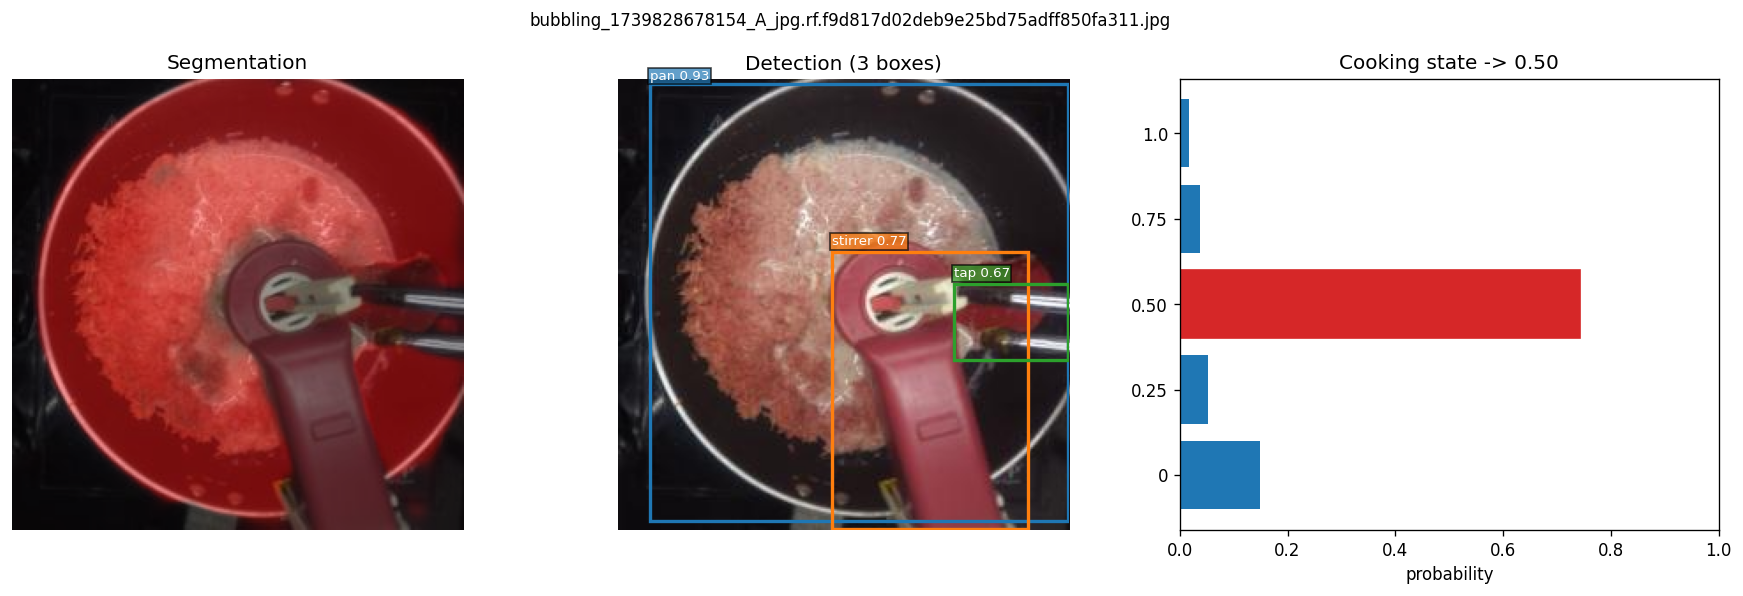
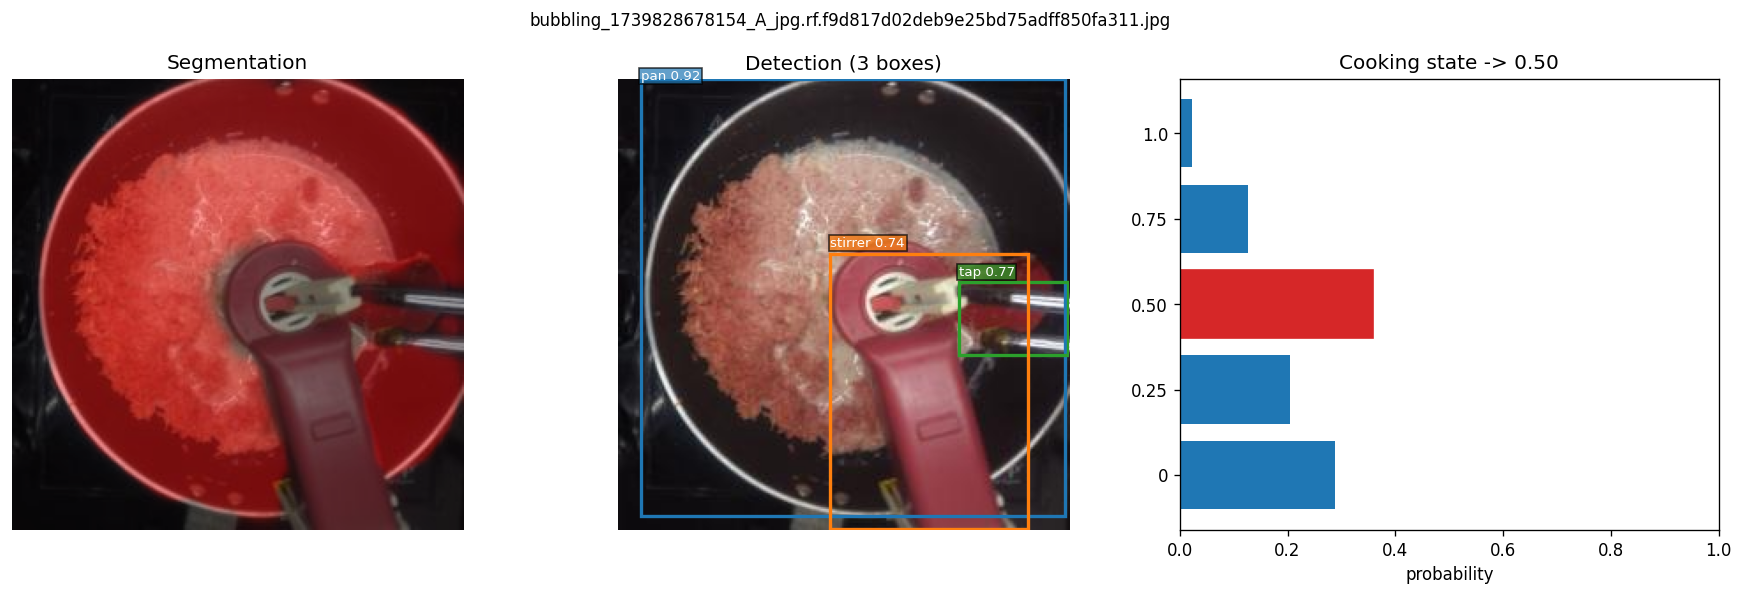
changed score-thres 0.3 to 0.4 for selecting boudning boxes at inference

diff --git a/inference.py b/inference.py
@@ -136,10 +136,29 @@ def run(args):
         det_results = model.predict_detections(
             img_t, score_thresh=args.score_thresh, nms_iou=args.nms_iou,
         )[0]
+        boxes = det_results["boxes"]
+        scores = det_results["scores"]
+        labels = det_results["labels"]
+
+        # Optional cleanup: keep only the top-K boxes per class.
+        # NMS already removes overlapping duplicates, but a model that's
+        # uncertain can still place several non-overlapping boxes of the same
+        # class at different spots. For images where you expect ~1 instance per
+        # class (like our cooking scenes), --top-k-per-class 1 gives a clean view.
+        if args.top_k_per_class > 0 and labels.numel() > 0:
+            keep = []
+            for cls in labels.unique():
+                cls_mask = (labels == cls).nonzero(as_tuple=False).squeeze(1)
+                cls_scores = scores[cls_mask]
+                top = cls_scores.topk(min(args.top_k_per_class, cls_scores.numel())).indices
+                keep.append(cls_mask[top])
+            keep = torch.cat(keep) if keep else torch.zeros((0,), dtype=torch.long, device=boxes.device)
+            boxes, scores, labels = boxes[keep], scores[keep], labels[keep]
+
         det = {
-            "boxes": det_results["boxes"].cpu().numpy(),
-            "scores": det_results["scores"].cpu().numpy(),
-            "labels": det_results["labels"].cpu().numpy(),
+            "boxes": boxes.cpu().numpy(),
+            "scores": scores.cpu().numpy(),
+            "labels": labels.cpu().numpy(),
         }
 
         visualize_one(
@@ -160,8 +179,11 @@ def parse_args():
                    help="One or more image files or directories.")
     p.add_argument("--output-dir", default="sample_outputs")
     p.add_argument("--image-size", type=int, default=256)
-    p.add_argument("--score-thresh", type=float, default=0.3)
+    p.add_argument("--score-thresh", type=float, default=0.4,
+                   help="Drop detections below this confidence. 0.4 gives clean visuals; lower it to see all candidates.")
     p.add_argument("--nms-iou", type=float, default=0.5)
+    p.add_argument("--top-k-per-class", type=int, default=0,
+                   help="If > 0, keep only the top-K highest-scored boxes per class after NMS (useful for one-instance-per-class scenes).")
     p.add_argument("--num-images", type=int, default=5)
     p.add_argument("--device", default="cuda" if torch.cuda.is_available() else "cpu")
     return p.parse_args()

diff --git a/README.md b/README.md
@@ -101,6 +101,16 @@ python inference.py \
 
 `--inputs` accepts any number of files or directories.
 
+For only one box per class:
+
+```bash
+python inference.py \
+  --checkpoint checkpoints/last.pt \
+  --inputs data/assignment-dataset/segmentation/images \
+  --output-dir sample_outputs \
+  --top-k-per-class 1
+```
+
 Sample output (one image -> one PNG):
 
 ![sample](sample_outputs/bubbling_1739828656796_A_jpg.rf.9c364cd73e026aa90fb79864427b7bb5.png)
